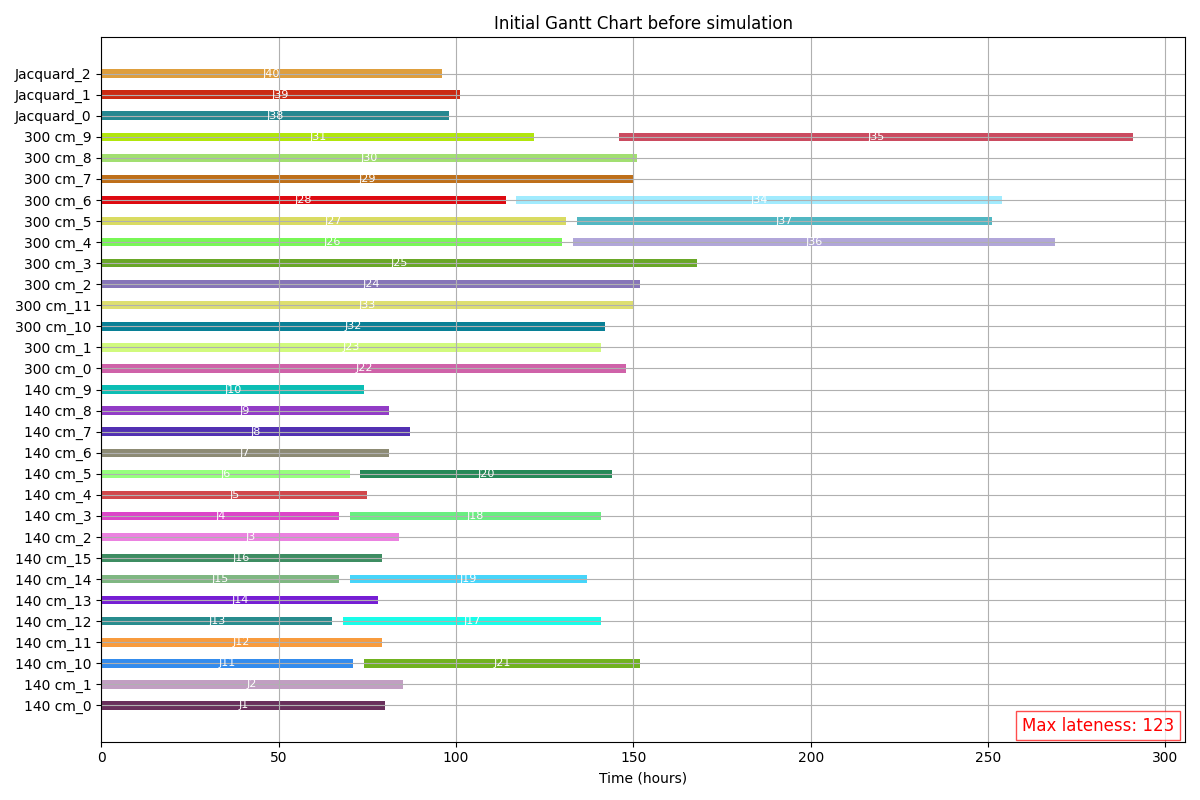
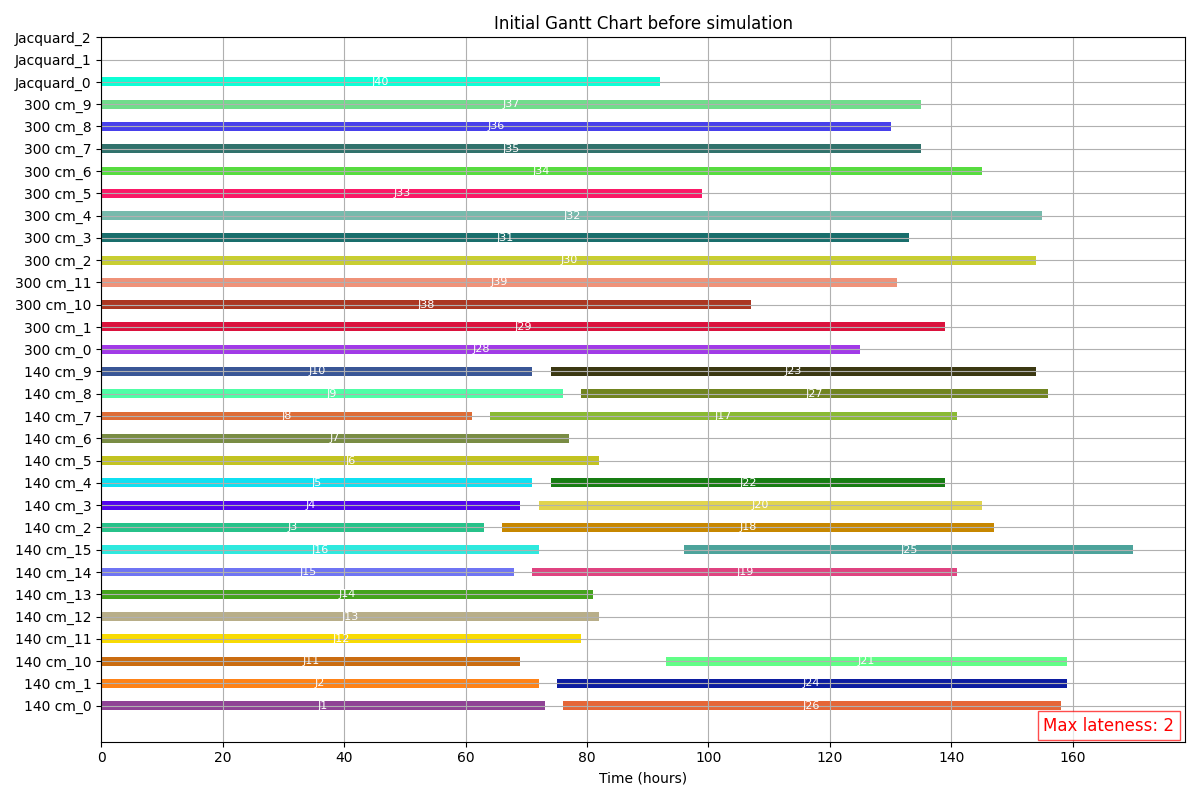
gant charts

diff --git a/runSim.py b/runSim.py
@@ -47,12 +47,12 @@ def simulate_over_time(self,total_hours=168, disruption_rates=(0.05, 0.05, 0.05)
 
     # Plot the initial schedule
     max_late = calculate_max_lateness(initial_schedule, jobs)
-    # plot_gantt_chart(
-    #     initial_schedule,
-    #     title="Initial Gantt Chart before simulation",
-    #     save_path="gantt_initial.png",
-    #     max_lateness=max_late
-    # )
+    plot_gantt_chart(
+        initial_schedule,
+        title="Initial Gantt Chart before simulation",
+        save_path="gantt_initial.png",
+        max_lateness=max_late
+    )
 
     for t in range(total_hours):
         # 1. Update job progress on each machine
@@ -156,12 +156,12 @@ def simulate_over_time(self,total_hours=168, disruption_rates=(0.05, 0.05, 0.05)
                 combined_schedule[machine] = actual_jobs + planned_jobs
 
             max_late = calculate_max_lateness(combined_schedule, jobs)
-            # plot_gantt_chart(
-            #     combined_schedule,
-            #     title=f"Gantt Chart after disruption at t={t}",
-            #     save_path=f"gantt_after_disruption_t{t}.png",
-            #     max_lateness=max_late
-            # )
+            plot_gantt_chart(
+                combined_schedule,
+                title=f"Gantt Chart after disruption at t={t}",
+                save_path=f"gantt_after_disruption_t{t}.png",
+                max_lateness=max_late
+            )
             return calculate_max_lateness(combined_schedule, jobs)
 
 class SimulationGUI:
